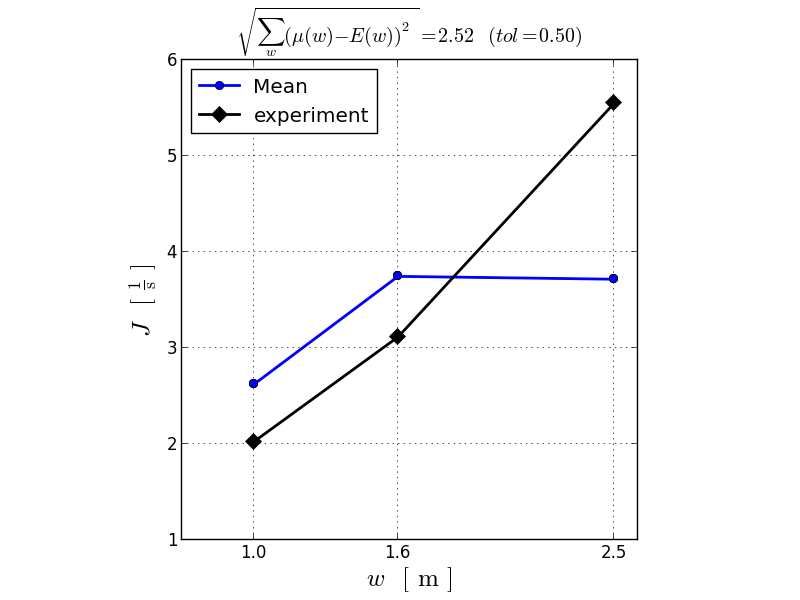
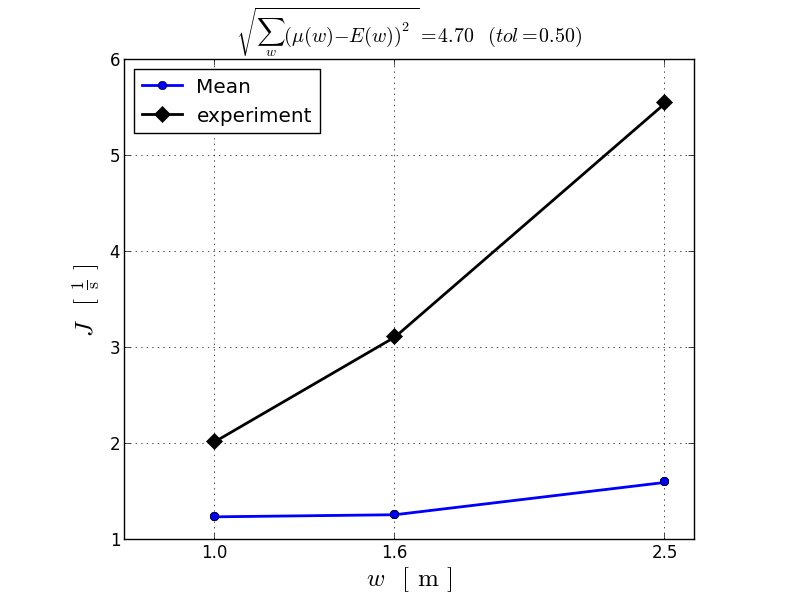
Simplify rep wall GCFM
testing ...

diff --git a/math/GCFMModel.cpp b/math/GCFMModel.cpp
@@ -223,6 +223,7 @@ inline Point GCFMModel::ForceRepRoom(Pedestrian* ped, SubRoom* subroom) const
 
      const vector<Wall>& walls = subroom->GetAllWalls();
      for (int i = 0; i < subroom->GetNumberOfWalls(); i++) {
+          
           f = f + ForceRepWall(ped, walls[i]);
      }
 
@@ -236,8 +237,8 @@ inline Point GCFMModel::ForceRepRoom(Pedestrian* ped, SubRoom* subroom) const
      }
 
      //eventually crossings
-     const vector<Crossing*>& crossings = subroom->GetAllCrossings();
-     for (unsigned int i = 0; i < crossings.size(); i++) {
+     // const vector<Crossing*>& crossings = subroom->GetAllCrossings();
+     // for (unsigned int i = 0; i < crossings.size(); i++) {
           //Crossing* goal=crossings[i];
           //int uid1= goal->GetUniqueID();
           //int uid2=ped->GetExitIndex();
@@ -245,7 +246,7 @@ inline Point GCFMModel::ForceRepRoom(Pedestrian* ped, SubRoom* subroom) const
           //if (uid1 != uid2) {
           //      f = f + ForceRepWall(ped,*((Wall*)goal));
           //}
-     }
+     // }
 
      // and finally the closed doors or doors that are not my destination
      const vector<Transition*>& transitions = subroom->GetAllTransitions();
@@ -282,7 +283,15 @@ inline Point GCFMModel::ForceRepWall(Pedestrian* ped, const Wall& w) const
      //double mind = ped->GetEllipse().MinimumDistanceToLine(w);
      double mind = 0.5; //for performance reasons this distance is assumed to be constant
      double vn = w.NormalComp(ped->GetV()); //normal component of the velocity on the wall
-     return  ForceRepStatPoint(ped, pt, mind, vn); //line --> l != 0
+     F = ForceRepStatPoint(ped, pt, mind, vn);
+
+     if(ped->GetID() == -9 )
+     {
+          printf("wall = [%f, %f]--[%f, %f] F= [%f %f]\n", w.GetPoint1().GetX(),  w.GetPoint1().GetY(), w.GetPoint2().GetX(), w.GetPoint2().GetY(), F.GetX(), F.GetY());
+     }
+
+     return  F; //line --> l != 0
+     
 }
 
 /* abstoßende Punktkraft zwischen ped und Punkt p
@@ -302,29 +311,40 @@ Point GCFMModel::ForceRepStatPoint(Pedestrian* ped, const Point& p, double l, do
      Point dist = p - ped->GetPos(); // x- and y-coordinate of the distance between ped and p
      double d = dist.Norm(); // distance between the centre of ped and point p
      Point e_ij; // x- and y-coordinate of the normalized vector between ped and p
-     double K_ij;
+     
      double tmp;
      double bla;
      Point r;
      Point pinE; // vorher x1, y1
      const JEllipse& E = ped->GetEllipse();
 
-     if (d < J_EPS)
+     if (d < J_EPS * 0.1)
           return Point(0.0, 0.0);
      e_ij = dist / d;
      tmp = v.ScalarP(e_ij); // < v_i , e_ij >;
      bla = (tmp + fabs(tmp));
      if (!bla) // Fussgaenger nicht im Sichtfeld
           return Point(0.0, 0.0);
-     if (fabs(v.GetX()) < J_EPS && fabs(v.GetY()) < J_EPS) // v==0)
-          return Point(0.0, 0.0);
-     K_ij = 0.5 * bla / v.Norm(); // K_ij
+     // if (fabs(v.GetX()) < J_EPS && fabs(v.GetY()) < J_EPS) // v==0)
+     //      return Point(0.0, 0.0);
+     // double K_ij;
+     // K_ij= 0.5 * bla / v.Norm(); // K_ij
      // Punkt auf der Ellipse
      pinE = p.CoordTransToEllipse(E.GetCenter(), E.GetCosPhi(), E.GetSinPhi());
      // Punkt auf der Ellipse
      r = E.PointOnEllipse(pinE);
      //interpolierte Kraft
-     F_rep = ForceInterpolation(ped->GetV0Norm(), K_ij, e_ij, vn, d, (r - E.GetCenter()).Norm(), l);
+
+     double a = 6., b= 25.;
+     double dist_eff = d - (r - E.GetCenter()).Norm();     
+
+     // if(ped->GetID() == -9 )
+     //      printf("dist=%f\n", dist_eff);
+
+
+     F_rep = e_ij* (-sigmoid(a, b, dist_eff ));
+
+     //F_rep = ForceInterpolation(ped->GetV0Norm(), K_ij, e_ij, vn, d, (r - E.GetCenter()).Norm(), l);
      return F_rep;
 }
 
@@ -466,7 +486,7 @@ void GCFMModel::CalculateForce(double time, double tip1, Building* building) con
 
      
      int partSize = nSize / nThreads;
-     int debugPed = -6;//10;
+     int debugPed = -9;//10;
 
      #pragma omp parallel  default(shared) num_threads(nThreads)
      {
@@ -522,10 +542,10 @@ void GCFMModel::CalculateForce(double time, double tip1, Building* building) con
                     bool isVisible = building->IsVisible(p1, p2, false);
                     if (!isVisible)
                          continue;
-                    if(debugPed == ped->GetID())
-                    {
-                         fprintf(stdout, "t=%f     %f    %f    %f     %f   %d  %d  %d\n", time,  p1.GetX(), p1.GetY(), p2.GetX(), p2.GetY(), isVisible, ped->GetID(), ped1->GetID());
-                    }
+                    // if(debugPed == ped->GetID())
+                    // {
+                    //      fprintf(stdout, "t=%f     %f    %f    %f     %f   %d  %d  %d\n", time,  p1.GetX(), p1.GetY(), p2.GetX(), p2.GetY(), isVisible, ped->GetID(), ped1->GetID());
+                    // }
                   //if they are in the same subroom
                     if (ped->GetUniqueRoomID() == ped1->GetUniqueRoomID()) {
                          F_rep = F_rep + ForceRepPed(ped, ped1);

diff --git a/Utest/utils.py b/Utest/utils.py
@@ -3,7 +3,7 @@ import logging
 import numpy as np
 
 SUCCESS = 0
-FAILURE = 1
+FAILURE = -1
 
 def get_maxtime(filename):
     """
@@ -74,7 +74,11 @@ def flow(fps, N, data, x0):
     times = []
     for ped in peds:
         d = data[ data[:,0] == ped ]
-        first = min( d[ d[:,2] >= x0 ][:,1] )
+        passed = d[ d[:,2] >= x0 ]
+        if passed.size == 0:  # pedestrian did not pass the line
+            logging.critical("Pedestrian <%d> did not pass the line at <%.2f>"%(ped, x0))
+            exit(FAILURE)
+        first = min( passed[:,1] )
         #print "ped= ", ped, "first=",first
         times.append( first )
     if len(times) < 2:

diff --git a/math/Mathematics.cpp b/math/Mathematics.cpp
@@ -136,7 +136,14 @@ Y(x) = y1 +  dy1*(x-x1) +  [x1 x1 x2]y*(x-x1)^2 + [x1 x1 x2 x2]y*(x-x1)^2*(x-x2)
     return px;
 }*/
 
+/// http://en.wikipedia.org/wiki/Sigmoid_function
+/// b is negative
+/// a is positive
 
+double sigmoid(double a, double b, double x)
+{     
+     return a/( 1+exp(b*x) );
+}
 // thanks to Sean Curtis
 double hermite_interp(double t, double x1, double x2, double y1, double y2, double dy1, double dy2)
 {

diff --git a/pedestrian/Ellipse.cpp b/pedestrian/Ellipse.cpp
@@ -195,7 +195,7 @@ double JEllipse::GetEA() const
 double JEllipse::GetEB() const
 {
      double b_shoulder = _Bmin; /// width of shoulder. todo: find out empricial value
-     double v_min = 0.01;
+     double v_min = 0.001;
      double a = 0.49;
      double b = -1.17;
      double v = _vel.Norm();

diff --git a/Utest/test_13/runtest_13.py b/Utest/test_13/runtest_13.py
@@ -12,8 +12,8 @@ import re
 testnr = 13
 #========================
 
-SUCCESS = 0
-FAILURE = 1
+# SUCCESS = 0
+# FAILURE = 1
 
 #--------------------------------------------------------
 logfile="log_test_%d.txt"%testnr

diff --git a/math/Mathematics.h b/math/Mathematics.h
@@ -35,6 +35,7 @@
 
 double sign(double x);
 
+double sigmoid(double a, double b, double x);
 double hermite_interp(double x, double x1, double x2, double y1, double y2,
                       double dy1, double dy2);
 
